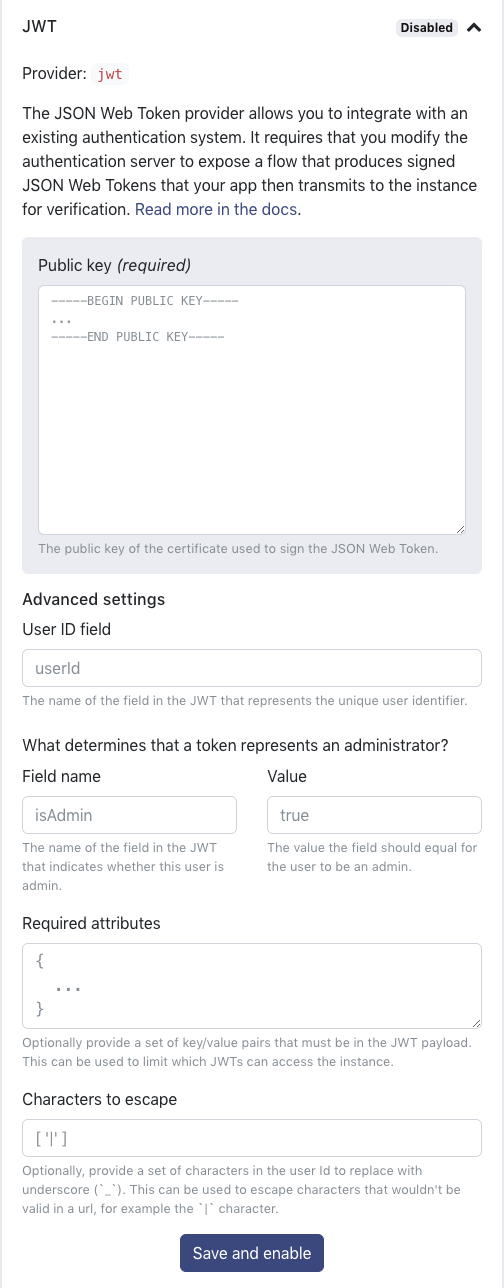
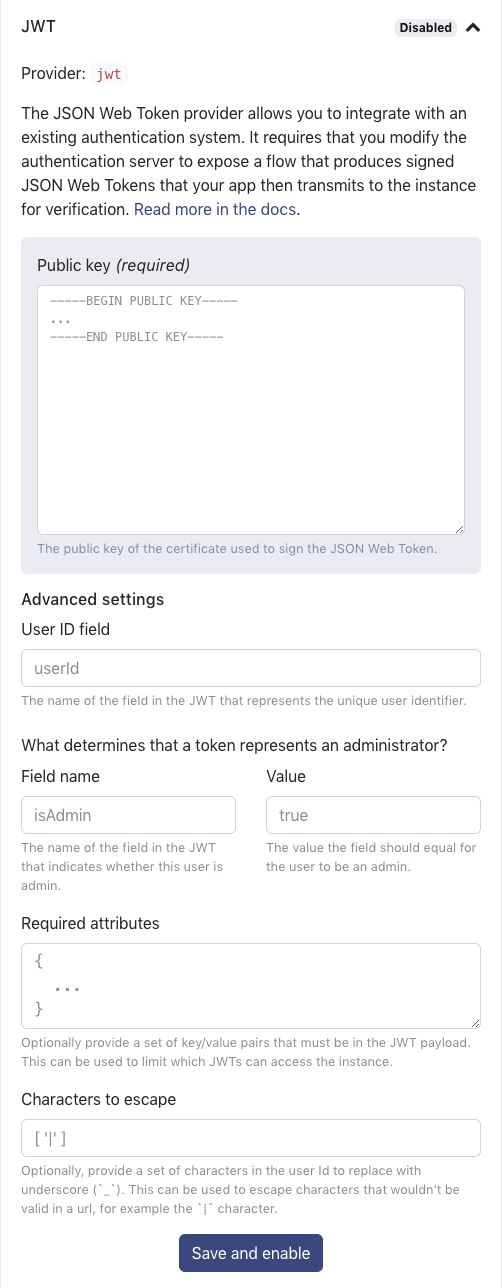
GitBook: [3.x] 3 pages and 6 assets modified

diff --git a/getting-started/android-quick-start/step-3-adding-permissions.md b/getting-started/android-quick-start/step-3-adding-permissions.md
@@ -43,6 +43,12 @@ We need to create a global Realm that will contain the `Project` and `Item` obje
    4. Select `true` for `mayRead` and `mayWrite` to give read and write permission on this Realm to all authenticated users.
    5. Click on _Create_ to create the permission. This will add it to the list of permissions in the `__admin` Realm.
 
+{% hint style="info" %}
+If you don't see the `__admin` Realm, go to the "View" menu and select "Show System Realms":
+
+![](../../.gitbook/assets/image%20%283%29.png)
+{% endhint %}
+
 You can verify that new `ToDo-permissions` Realm is set up correctly by checking that its ownership is reported as `public R W`.
 
 {% hint style="info" %}

diff --git a/using-synced-realms/working-with-users/admin-users.md b/using-synced-realms/working-with-users/admin-users.md
@@ -38,7 +38,7 @@ const token = jwt.sign(payload, { key:  key, passphrase: 'your-passphrase' }, { 
 {% tab title="Cloud" %}
 You can configure the JWT provider in your instance settings. Adjust the _Field Name_ and _Value_ inputs to control what determines that a token is an administrator:
 
-![](../../.gitbook/assets/image%20%283%29.png)
+![](../../.gitbook/assets/image%20%284%29.png)
 {% endtab %}
 
 {% tab title="Self-Hosted" %}

diff --git a/using-synced-realms/working-with-users/authentication-providers.md b/using-synced-realms/working-with-users/authentication-providers.md
@@ -148,7 +148,7 @@ By default Nickname authentication is enabled with Cloud
 
 To enable or disable go to the Settings for your instance in the cloud portal:
 
-![](../../.gitbook/assets/image%20%286%29.png)
+![](../../.gitbook/assets/image%20%288%29.png)
 {% endtab %}
 
 {% tab title="Self-Hosted" %}
